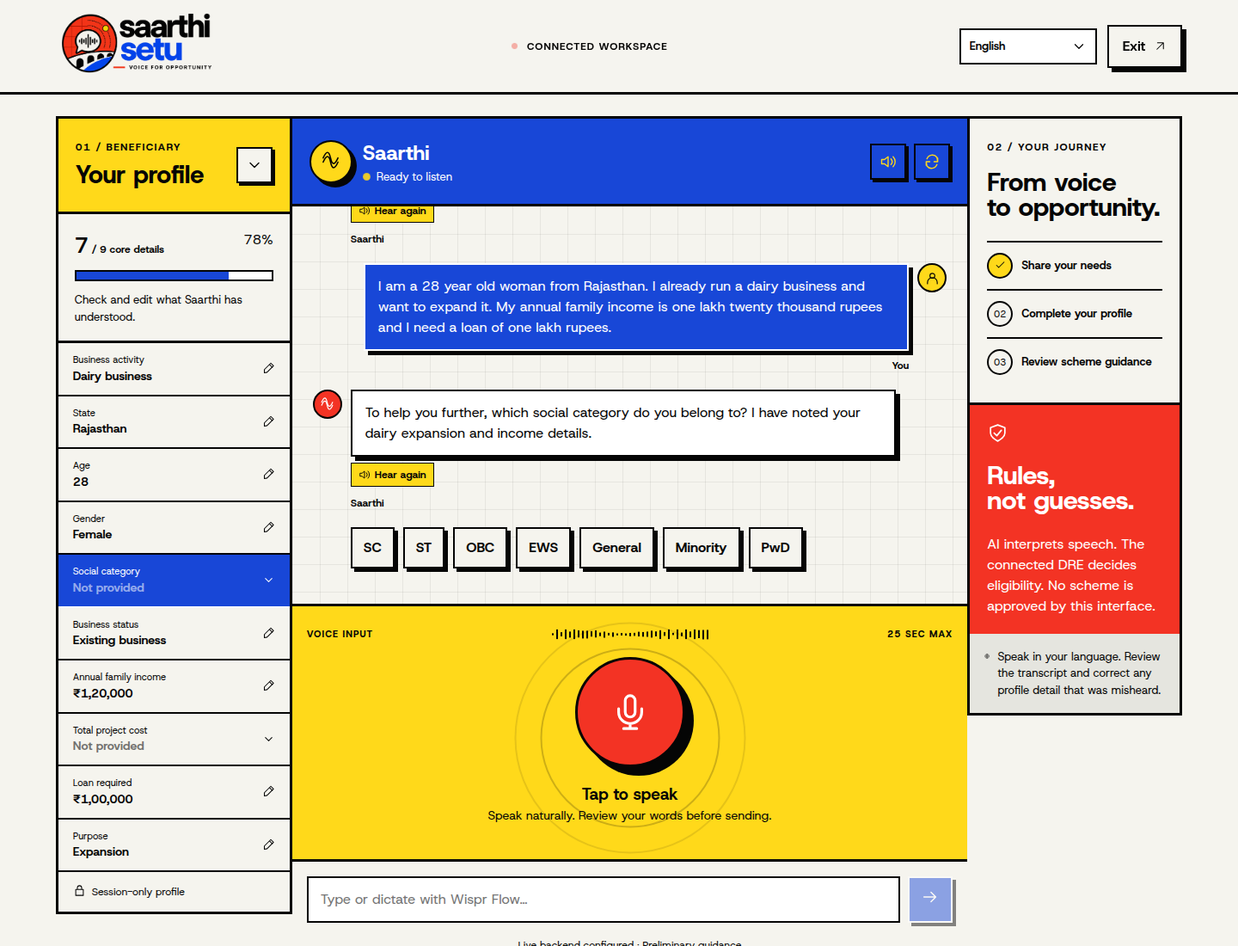
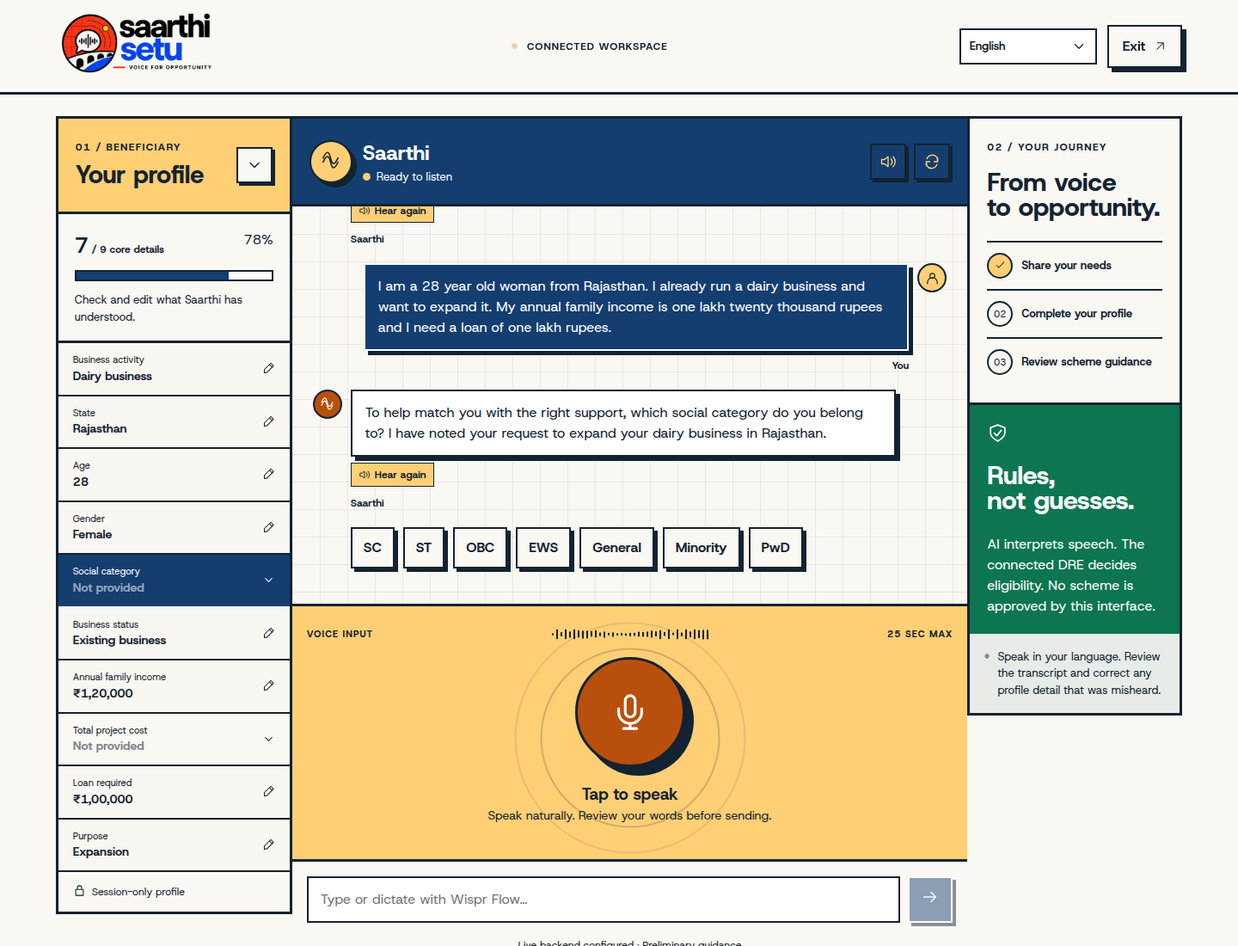
Refresh civic UI and repository screenshots

diff --git a/components/Landing.jsx b/components/Landing.jsx
@@ -4,6 +4,18 @@ import Icon,{Brand} from './Icon';
 import CountUp from './CountUp';
 import {LANGUAGES} from '../lib/languages.mjs';
 import {config} from '../lib/api.mjs';
+const audiences=[
+ {icon:'store',title:'Starting a small business',detail:'A shop, service, food unit or local enterprise needs a clear first step.',prompt:'“I want to open a small shop.”'},
+ {icon:'leaf',title:'Growing a farm-linked livelihood',detail:'Dairy, poultry and other allied activities may need working capital.',prompt:'“I run a dairy unit and want to expand.”'},
+ {icon:'hand',title:'Working with a traditional craft',detail:'Artisans can explore support for skills, tools, credit and markets.',prompt:'“I make products by hand.”'},
+ {icon:'wallet',title:'Finding the right finance',detail:'Tell Saarthi the project cost and loan you need; it will ask for missing details.',prompt:'“I need funds for my business.”'},
+];
+const schemes=[
+ {title:'Pradhan Mantri MUDRA Yojana',short:'MUDRA',tag:'MICRO ENTERPRISE',audience:'Small businesses in manufacturing, trade, services and allied activities, including dairy and poultry.',benefit:'Term loans and working capital across Shishu, Kishor, Tarun and eligible Tarun Plus categories.',url:'https://www.pib.gov.in/PressReleasePage.aspx?PRID=2240159&lang=1&reg=3',icon:'store'},
+ {title:'Prime Minister’s Employment Generation Programme',short:'PMEGP',tag:'NEW ENTERPRISE',audience:'People setting up a new non-farm micro enterprise in an urban or rural area.',benefit:'Credit-linked margin-money subsidy, generally 15–35% of project cost based on category and location.',url:'https://www.common-pmegp.msme.gov.in/Home/FAQ',icon:'spark'},
+ {title:'Kisan Credit Card',short:'KCC',tag:'FARM & DAIRY',audience:'Farmers and people engaged in animal husbandry or fisheries who need working capital.',benefit:'Access to short-term credit for cultivation and eligible allied-agriculture activities.',url:'https://www.financialservices.gov.in/agriculture-credit',icon:'leaf'},
+ {title:'PM Vishwakarma',short:'VISHWAKARMA',tag:'ARTISANS',audience:'Traditional artisans and craftspeople working in one of 18 notified trades.',benefit:'Recognition, skill training, toolkit support, credit and market linkage, subject to scheme verification.',url:'https://s3fd5a3f16c2001a93d9d64a1ec1d6196e.s3waas.gov.in/scheme/pm-vishwakarma/',icon:'hand'},
+];
 export function Wave({className=''}){return <span className={'wave '+className} aria-hidden="true">{Array.from({length:37},(_,i)=><i key={i} style={{'--height':`${(7+Math.abs(Math.sin(i*1.46)*Math.cos(i*.095))*37).toFixed(2)}px`,'--delay':`${(i*.035).toFixed(3)}s`}}/>)}</span>}
 export function Orb({small=false,active=false}){return <div className={'orb '+(small?'small ':'')+(active?'active':'')} aria-hidden="true"><div className="orb-ring r1"/><div className="orb-ring r2"/><div className="orb-ring r3"/><div className="orb-core"><div className="orb-shine"/><Wave/></div></div>}
 export default class Landing extends React.Component{
@@ -39,14 +51,16 @@ export default class Landing extends React.Component{
 }
  componentWillUnmount(){window.removeEventListener('beforeinstallprompt',this.onInstall);if(this.onScroll)window.removeEventListener('scroll',this.onScroll);if(this.scrollFrame)cancelAnimationFrame(this.scrollFrame);document.body.classList.remove('landing-motion-ready');document.body.style.removeProperty('--page-progress');this.observer?.disconnect();if(this.videoObject)URL.revokeObjectURL(this.videoObject)}
  chooseVideo=e=>{const file=e.target.files?.[0];if(!file)return;if(this.videoObject)URL.revokeObjectURL(this.videoObject);this.videoObject=URL.createObjectURL(file);this.setState({video:this.videoObject})};
- render(){return <><header className="site-nav"><div className="nav-content"><a href="/" aria-label="Saarthi Setu home"><Brand/></a><nav className={this.state.menu?'nav-links open':'nav-links'}><a onClick={()=>this.setState({menu:false})} href="#how">How it works</a><a onClick={()=>this.setState({menu:false})} href="#technology">Technology</a><a onClick={()=>this.setState({menu:false})} href="#demo">IVR demo</a></nav><div className="nav-actions">{this.state.install&&<button className="text-link install" onClick={()=>{this.state.install.prompt();this.setState({install:null})}}>Install app</button>}<a className="btn dark nav-cta" href="/assistant">Talk to Saarthi <Icon name="diagonal" size={16}/></a><button aria-label="Toggle navigation" className="mobile-menu icon-button" onClick={()=>this.setState(s=>({menu:!s.menu}))}><Icon name="menu"/></button></div></div></header>
+ render(){return <><header className="site-nav"><div className="nav-content"><a href="/" aria-label="Saarthi Setu home"><Brand/></a><nav aria-label="Main navigation" className={this.state.menu?'nav-links open':'nav-links'}><a onClick={()=>this.setState({menu:false})} href="#for-whom">Who it helps</a><a onClick={()=>this.setState({menu:false})} href="#schemes">Explore schemes</a><a onClick={()=>this.setState({menu:false})} href="#how">How it works</a><a onClick={()=>this.setState({menu:false})} href="#technology">Technology</a><a onClick={()=>this.setState({menu:false})} href="#demo">IVR demo</a></nav><div className="nav-actions">{this.state.install&&<button className="text-link install" onClick={()=>{this.state.install.prompt();this.setState({install:null})}}>Install app</button>}<a className="btn dark nav-cta" href="/assistant">Talk to Saarthi <Icon name="diagonal" size={16}/></a><button aria-label="Toggle navigation" aria-expanded={this.state.menu} className="mobile-menu icon-button" onClick={()=>this.setState(s=>({menu:!s.menu}))}><Icon name="menu"/></button></div></div></header>
  <main><section className="hero-new"><div className="hero-copy"><div className="eyebrow"><span className="signal-dot"/> A VOICE-FIRST CIVIC SERVICE <span className="eyebrow-divider"/> MADE FOR BHARAT</div><h1><span className="hero-title-top">Opportunity begins</span><span className="hero-title-bottom">with <em>your voice.</em></span></h1><p className="hero-description">You don't need to know the name of a government scheme. Just tell us what you want to do. We'll help you find the right support, in the language you speak.</p><div className="hero-actions"><a className="btn dark large" href="/assistant"><Icon name="mic" size={20}/> Start a conversation <Icon name="arrow" size={19}/></a><a href="#demo" className="btn outline large"><Icon name="play" size={18}/> Watch the IVR</a></div><div className="hero-fine"><Icon name="lock" size={14}/> No account required <span/> Auto-detect Indian languages</div><a className="scroll-cue" href="#impact">SCROLL TO EXPLORE <span aria-hidden="true">↓</span></a></div>
  <div className="hero-art" ref={e=>this.heroArt=e}><div className="art-grain"/><div className="art-grid"/><div className="art-label"><span className="signal-dot"/> THE SAARTHI EXPERIENCE <span>01 / 03</span></div><div className="art-caption">A little conversation.<br/><i>A lot of possibility.</i></div><svg className="orbit-lines" viewBox="0 0 800 640" preserveAspectRatio="none" aria-hidden="true">{Array.from({length:18},(_,i)=><path key={i} d={`M -70 ${300+i*20} Q 180 ${90+i*22}, 420 ${260+i*12} T 870 ${170+i*18}`} fill="none" stroke="currentColor" strokeWidth=".65"/>)}</svg><Orb/><div className="glass-message glass-left"><span className="mini-avatar"><Icon name="mark" size={18}/></span><div><small>SAARTHI</small><p>Tell me about the business<br/>you want to start.</p></div></div><div className="glass-message glass-right"><small>YOU · VOICE INPUT</small><p>“I want to start a dairy<br/>business in Rajasthan.”</p><Wave/></div><div className="glass-proof"><Icon name="shield" size={19}/><span>Rules, not guesses.<small>Explainable scheme guidance</small></span></div><div className="art-footer"><span>01 — SPEAK NATURALLY</span><span>VOICE → OPPORTUNITY</span></div></div></section>
  <section className="trust-strip"><div className="reveal"><span>BUILT AROUND</span><strong>Accessible public services</strong></div><div className="reveal"><Icon name="phone"/><span>Ordinary phone access<small>Existing IVR prototype</small></span></div><div className="reveal"><Icon name="globe"/><span>Indian languages<small>Multilingual voice conversations</small></span></div><div className="reveal"><Icon name="shield"/><span>Rule-based eligibility<small>Auditable decision engine</small></span></div></section>
  <section className="impact-section" id="impact" aria-label="Saarthi Setu at a glance"><div className="impact-intro reveal"><span className="section-index">BUILT FOR REAL CONVERSATIONS</span><h2>Every voice<br/><em>deserves a way in.</em></h2><p>Start with what you know. Saarthi helps you fill the rest, then checks the rules.</p></div><div className="impact-stats">{[[Object.keys(LANGUAGES).length,'Language choices','Your words come first.'],[11,'Spoken reply languages','Hear Saarthi respond.'],[9,'Core profile details','Confirm before matching.']].map(([value,label,note],index)=><div className="impact-stat reveal" style={{'--reveal-delay':`${index*110}ms`}} key={label}><span className="impact-stat-index">0{index+1} /</span><strong><CountUp value={value}/></strong><h3>{label}</h3><p>{note}</p></div>)}</div></section>
  <div className="voice-marquee" aria-hidden="true"><div>{Array.from({length:4},(_,i)=><span key={i}>SPEAK NATURALLY <b>✳</b> FIND CLARITY <b>✳</b> KNOW YOUR NEXT STEP <b>✳</b> </span>)}</div></div>
+ <section className="audience-section section" id="for-whom"><div className="civic-section-head reveal"><span className="section-index">MADE FOR EVERYDAY AMBITION</span><h2>There is a path for <em>your idea.</em></h2><p>These are examples of the conversations Saarthi can help start. Speak in your language and describe your situation in your own words.</p></div><div className="audience-grid">{audiences.map((item,index)=><article className="audience-card reveal" style={{'--reveal-delay':`${index*90}ms`}} key={item.title}><span className="audience-icon"><Icon name={item.icon} size={30}/></span><h3>{item.title}</h3><p>{item.detail}</p><blockquote>{item.prompt}</blockquote></article>)}</div><div className="audience-bottom reveal"><strong>Know what you want to do, but not the scheme name?</strong><a href="/assistant" className="text-link">Tell Saarthi your story <Icon name="diagonal" size={16}/></a></div></section>
+ <section className="schemes-section section" id="schemes"><div className="civic-section-head reveal"><span className="section-index">PUBLIC SCHEME SPOTLIGHT</span><h2>Support that starts with <em>possibility.</em></h2><p>Explore examples of government support for enterprise and livelihoods. Saarthi checks your profile before showing matches; scheme rules and availability should always be confirmed on the official source.</p></div><div className="schemes-grid">{schemes.map((scheme,index)=><article className="spotlight-card reveal" style={{'--reveal-delay':`${index*90}ms`}} key={scheme.short}><div className="spotlight-top"><span>{scheme.tag}</span><span className="spotlight-icon"><Icon name={scheme.icon} size={25}/></span></div><span className="spotlight-short">{scheme.short}</span><h3>{scheme.title}</h3><div className="spotlight-detail"><strong>Who it may help</strong><p>{scheme.audience}</p></div><div className="spotlight-detail"><strong>What it offers</strong><p>{scheme.benefit}</p></div><a href={scheme.url} target="_blank" rel="noopener noreferrer" className="spotlight-link">Read official details <Icon name="diagonal" size={16}/></a></article>)}</div><div className="schemes-footnote reveal"><Icon name="shield" size={20}/><p>These cards are examples, not eligibility decisions or loan offers. Programme rules, bank assessment and application status can change. Use the official links for current details.</p></div></section>
  <section className="section how-section" id="how"><div className="section-heading reveal"><div className="section-index">01 / THE EXPERIENCE</div><h2>Not another form.<br/><em>A conversation.</em></h2><p>From a simple voice request to an actionable next step, without getting lost in government portals.</p></div><div className="steps-grid">{[['01','mic','Tell us what you need.','Speak naturally about your business, your location and the support you are looking for.','“Mujhe dairy business shuru karna hai.”'],['02','chat','Only what’s missing.','Saarthi asks relevant follow-ups and keeps the information you have already shared.','“What is your total project cost?”'],['03','file','Know your next step.','Explore rule-checked recommendations, financing guidance, documents and official sources.','Right scheme. Right door.']].map(([n,icon,title,desc,quote],index)=><article className="step-card reveal" style={{'--reveal-delay':`${index*120}ms`}} key={n}><div className="step-top"><span>{n} /</span><Icon name={icon} size={25}/></div><h3>{title}</h3><p>{desc}</p><div className="step-quote">{quote}</div></article>)}</div></section>
  <section className="tech-band" id="technology"><div className="section-index">02 / INTELLIGENCE WITH ACCOUNTABILITY</div><div className="tech-inner"><div className="tech-copy reveal"><h2>AI understands.<br/>Rules decide.<br/><em>Ranking explains.</em></h2><p>Voice and semantic understanding help capture the facts. The deterministic backend evaluates eligibility against explicit scheme rules. Similarity can guide discovery, but it never proves eligibility.</p><a href="/assistant" className="btn lime large">Explore the experience <Icon name="arrow"/></a></div><div className="tech-stack reveal">{[['01','Voice & language','Speech or Wispr Flow dictation','mic'],['02','Structured profile','Context-aware follow-up questions','user'],['03','Scheme discovery','Vector retrieval when connected','spark'],['04','Deterministic evaluation','Rules, ranking and financial guidance','shield']].map(([n,title,sub,icon],index)=><div className="tech-row reveal" style={{'--reveal-delay':`${index*100}ms`}} key={n}><span className="tech-num">{n}</span><span className="tech-icon"><Icon name={icon}/></span><div><strong>{title}</strong><small>{sub}</small></div><Icon name="diagonal" size={16}/></div>)}</div></div></section>
  <section className="section demo-section" id="demo"><div className="section-heading reveal"><div className="section-index">03 / THE ORIGINAL VOICE AGENT</div><h2>A real phone call.<br/><em>A wider reach.</em></h2><p>Our original telephone IVR prototype brings the same idea to people without a smartphone or mobile internet. The web experience makes it easy to try without calling a paid test number.</p></div><div className="demo-film reveal">{this.state.video?<video controls playsInline preload="metadata" src={this.state.video}/>:<div className="film-placeholder"><div className="film-top"><span><span className="signal-dot"/> IVR / DEMONSTRATION</span><span>EN · HI</span></div><div className="film-center"><Orb small/><button className="play-circle" onClick={()=>this.file.click()} aria-label="Choose the IVR demo video"><Icon name="play" size={26}/></button></div><h3>One call. Right scheme. Right door.</h3><p>Original IVR recording — video not attached yet.</p><button className="btn outline inverse" onClick={()=>this.file.click()}>Attach demo video <Icon name="diagonal" size={16}/></button></div>}<input ref={e=>this.file=e} type="file" hidden accept="video/*" onChange={this.chooseVideo}/></div></section>
- <section className="final-cta"><div className="reveal"><div className="section-index">YOUR NEXT STEP</div><h2>Don't search.<br/><em>Just speak.</em></h2></div><a href="/assistant" className="btn dark large reveal"><Icon name="mic"/> Talk to Saarthi <Icon name="arrow"/></a></section></main><footer className="site-footer"><Brand/><p>Independent civic-tech prototype. Not an official government portal.<br/>Preliminary scheme guidance is not financial approval.</p><span>BUILT FOR BHARAT · 2026</span></footer></>}
+ <section className="final-cta"><div className="reveal"><div className="section-index">YOUR NEXT STEP</div><h2>Don't search.<br/><em>Just speak.</em></h2></div><a href="/assistant" className="btn dark large reveal"><Icon name="mic"/> Talk to Saarthi <Icon name="arrow"/></a></section></main><footer className="site-footer"><div className="footer-main"><div className="footer-about"><Brand/><p>Voice-led discovery for public support, built for the people and languages of India.</p><small>Independent civic-tech prototype. Saarthi Setu is not a government portal, and preliminary matches are not approvals.</small></div><div className="footer-column"><h3>Explore Saarthi</h3><a href="#for-whom">Who it helps</a><a href="#schemes">Scheme spotlight</a><a href="#how">How it works</a><a href="/assistant">Talk to Saarthi</a></div><div className="footer-column"><h3>Official resources</h3><a href="https://www.myscheme.gov.in/" target="_blank" rel="noopener noreferrer">myScheme</a><a href="https://www.india.gov.in/" target="_blank" rel="noopener noreferrer">National Portal of India</a><a href="https://www.jansamarth.in/home" target="_blank" rel="noopener noreferrer">JanSamarth</a><a href="https://www.digilocker.gov.in/" target="_blank" rel="noopener noreferrer">DigiLocker</a></div></div><div className="footer-bottom"><span>BUILT FOR BHARAT · 2026</span><span>VOICE FOR OPPORTUNITY</span></div></footer></>}
 }

diff --git a/components/Workspace.jsx b/components/Workspace.jsx
@@ -3,7 +3,7 @@ import React from 'react';
 import Icon,{Brand} from './Icon';
 import Report from './Report';
 import LanguagePicker from './LanguagePicker';
-import {Wave,Orb} from './Landing';
+import {Wave} from './Landing';
 import {FIELDS,REQUIRED,OPTIONS,LABELS,present,display,parseField,SAMPLE,sampleCandidates} from '../lib/profile.mjs';
 import {config,match,transcribe,eligibleItems} from '../lib/api.mjs';
 import {LANGUAGES,isLanguage} from '../lib/languages.mjs';
@@ -31,7 +31,7 @@ export default class Workspace extends React.Component{
  saveEdit=e=>{e.preventDefault();const {edit,editValue}=this.state;const value=OPTIONS[edit]?(Object.hasOwn(OPTIONS[edit],editValue)?(edit==='existing_business'?editValue==='true':editValue):null):parseField(edit,editValue);if(!present(value)){this.setState({editError:'Enter a valid value.'});return}this.setState({edit:null},()=>this.submit(`${LABELS[edit]}: ${display(edit,value)}`,{[edit]:value}))};
  changeLang=e=>{this.stopRecording(true);const lang=typeof e==='string'?e:e.target.value;this.setState({lang,activeLang:lang==='unknown'?this.state.activeLang:lang,conversationLang:lang==='unknown'?null:lang},()=>{if(this.state.started&&this.state.pending&&lang!=='unknown')this.submit('Please continue in '+LANGUAGES[lang])})};
  render(){const s=this.state,done=REQUIRED.filter(k=>present(s.profile[k])).length,pct=Math.round(done/REQUIRED.length*100),disabled=s.busy||s.recording||s.starting;return <div className="workspace-shell"><header className="workspace-nav"><a href="/"><Brand/></a><div className="workspace-nav-center"><span className="signal-dot"/> {config.matchUrl?'Connected workspace':'Interactive preview'}</div><div className="workspace-nav-actions">{s.started&&<LanguagePicker id="header-language" value={s.lang} disabled={s.busy||s.recording||s.starting} onChange={this.changeLang} compact/>}<a className="btn outline" href="/">Exit <Icon name="diagonal" size={15}/></a></div></header>
- {!s.started?<main className="entry"><div className="entry-art"><Orb/><div className="section-index">YOUR VOICE. YOUR OPPORTUNITY.</div></div><form className="entry-card" onSubmit={this.start}><span className="section-index">START / 01</span><h1>Let's get<br/><em>you started.</em></h1><p>One conversation, one step closer to the right support. No account, password or sign-up required.</p><label htmlFor="guest-name">What should we call you? <small>(optional)</small></label><input id="guest-name" autoComplete="off" maxLength={45} placeholder="Your first name" value={s.name} onChange={e=>this.setState({name:e.target.value})}/><div className="language-choice"><label htmlFor="guest-language">Which language would you like to speak and hear?</label><LanguagePicker id="guest-language" value={s.lang} onChange={this.changeLang}/><p>Audio replies start on. Sarvam voices cover 11 languages; other languages use your browser voice when available.</p></div><p className="privacy-note"><Icon name="lock" size={17}/> The frontend keeps this conversation in memory only. Connected speech services may process your audio. Use sample details for a demo.</p><button className="btn dark large" type="submit" disabled={s.busy}>{s.busy?"Starting…":"Continue as guest"} <Icon name="arrow"/></button></form></main>:<main className="workspace-main"><aside className="profile-panel"><div className="profile-heading"><div><span className="section-index">01 / BENEFICIARY</span><h2>Your profile</h2></div><button className="icon-button mobile-profile" aria-label="Toggle profile" aria-expanded={s.profileOpen} onClick={()=>this.setState({profileOpen:!s.profileOpen})}><Icon name="chevron"/></button></div><div className="profile-progress"><div><strong>{done}<small> / {REQUIRED.length} core details</small></strong><span>{pct}%</span></div><div className="progress-track" role="progressbar" aria-label="Core profile completion" aria-valuenow={pct} aria-valuemin={0} aria-valuemax={100}><i style={{width:pct+'%'}}/></div><p>Check and edit what Saarthi has understood.</p></div><div className={'profile-fields '+(s.profileOpen?'expanded':'')}>{FIELDS.map(([k,label,h])=><button key={k} className={'profile-field '+(s.pending===k?'pending':'')+(s.updatedFields.includes(k)?' updated':'')} disabled={disabled} onClick={()=>this.edit(k)}><span><small>{s.lang==='hi-IN'?h:label}</small><strong className={present(s.profile[k])?'':'missing'}>{display(k,s.profile[k])}</strong></span><Icon name={present(s.profile[k])?'edit':'chevron'} size={15}/></button>)}</div><div className="profile-bottom"><Icon name="lock" size={15}/> Session-only profile</div></aside>
+ {!s.started?<main className="entry"><div className="entry-art"><img className="entry-illustration" src="/illustrations/assistant-welcome.png" alt="A woman using Saarthi Setu on her phone to explore public schemes"/><div className="section-index">YOUR VOICE. YOUR OPPORTUNITY.</div></div><form className="entry-card" onSubmit={this.start}><span className="section-index">START / 01</span><h1>Let's get<br/><em>you started.</em></h1><p>One conversation, one step closer to the right support. No account, password or sign-up required.</p><label htmlFor="guest-name">What should we call you? <small>(optional)</small></label><input id="guest-name" autoComplete="off" maxLength={45} placeholder="Your first name" value={s.name} onChange={e=>this.setState({name:e.target.value})}/><div className="language-choice"><label htmlFor="guest-language">Which language would you like to speak and hear?</label><LanguagePicker id="guest-language" value={s.lang} onChange={this.changeLang}/><p>Audio replies start on. Sarvam voices cover 11 languages; other languages use your browser voice when available.</p></div><p className="privacy-note"><Icon name="lock" size={17}/> The frontend keeps this conversation in memory only. Connected speech services may process your audio. Use sample details for a demo.</p><button className="btn dark large" type="submit" disabled={s.busy}>{s.busy?"Starting…":"Continue as guest"} <Icon name="arrow"/></button></form></main>:<main className="workspace-main"><aside className="profile-panel"><div className="profile-heading"><div><span className="section-index">01 / BENEFICIARY</span><h2>Your profile</h2></div><button className="icon-button mobile-profile" aria-label="Toggle profile" aria-expanded={s.profileOpen} onClick={()=>this.setState({profileOpen:!s.profileOpen})}><Icon name="chevron"/></button></div><div className="profile-progress"><div><strong>{done}<small> / {REQUIRED.length} core details</small></strong><span>{pct}%</span></div><div className="progress-track" role="progressbar" aria-label="Core profile completion" aria-valuenow={pct} aria-valuemin={0} aria-valuemax={100}><i style={{width:pct+'%'}}/></div><p>Check and edit what Saarthi has understood.</p></div><div className={'profile-fields '+(s.profileOpen?'expanded':'')}>{FIELDS.map(([k,label,h])=><button key={k} className={'profile-field '+(s.pending===k?'pending':'')+(s.updatedFields.includes(k)?' updated':'')} disabled={disabled} onClick={()=>this.edit(k)}><span><small>{s.lang==='hi-IN'?h:label}</small><strong className={present(s.profile[k])?'':'missing'}>{display(k,s.profile[k])}</strong></span><Icon name={present(s.profile[k])?'edit':'chevron'} size={15}/></button>)}</div><div className="profile-bottom"><Icon name="lock" size={15}/> Session-only profile</div></aside>
  <section className="conversation-panel"><div className="conversation-header"><div className="assistant-identity"><span className="assistant-avatar"><Icon name="mark" size={23}/></span><div><h2>Saarthi</h2><p><span className="signal-dot"/> {s.busy?'Processing your answer':s.recording?'Listening to you':'Ready to listen'}</p></div></div><div className="conversation-tools"><button className="icon-button" aria-label={s.tts?'Mute spoken replies':'Enable spoken replies'} aria-pressed={s.tts} onClick={()=>this.setState({tts:!s.tts},()=>{if(s.tts)this.stopSpeech();else{const m=[...this.state.messages].reverse().find(m=>m.role==='assistant');if(m)this.speak(m.text)}})}><Icon name={s.tts?'volume':'mute'}/></button><button className="icon-button" disabled={s.starting} aria-label="Start new conversation" onClick={()=>{if(window.confirm('Clear the current conversation and profile?'))this.reset()}}><Icon name="refresh"/></button></div></div>
  <div className="chat-area" ref={e=>this.chat=e} aria-live="polite"><div className="chat-intro"><span className="section-index">PRIVATE SESSION / SCHEME DISCOVERY</span></div>{s.messages.map((m,i)=><div className={'chat-message '+m.role} key={i}><span className="msg-avatar"><Icon name={m.role==='assistant'?'mark':'user'} size={17}/></span><div><div className="chat-bubble">{m.text}</div>{m.role==='assistant'&&<button type="button" className="reply-replay" aria-label="Hear Saarthi reply again" onClick={()=>this.setState({tts:true},()=>this.speak(m.text))}><Icon name="volume" size={14}/> Hear again</button>}<small>{m.role==='assistant'?'Saarthi':'You'}</small></div></div>)}{s.messages.length===1&&<button className="sample-button" disabled={disabled} onClick={()=>this.submit(s.lang==='hi-IN'?SAMPLE.hi:SAMPLE.en)}><Icon name="spark" size={16}/> Try a sample conversation <Icon name="arrow" size={15}/></button>}{s.awaitingConfirmation&&!s.result&&<div className="quick-choices confirmation-actions"><button disabled={disabled} onClick={()=>this.submit('I confirm these profile details.',null,true)}><Icon name="check" size={15}/> Confirm details and see schemes</button><button disabled={disabled} onClick={()=>this.setState({profileOpen:true},()=>document.querySelector('.profile-panel')?.scrollIntoView({behavior:'smooth',block:'start'}))}><Icon name="edit" size={15}/> Correct a detail</button></div>}{s.pending&&OPTIONS[s.pending]&&!s.result&&<div className="quick-choices">{Object.entries(OPTIONS[s.pending]).map(([v,label])=><button disabled={disabled} key={v} onClick={()=>this.submit(label,{[s.pending]:s.pending==='existing_business'?v==='true':v})}>{label}</button>)}</div>}{s.busy&&<div className="thinking"><span/><span/><span/> Reviewing your answer</div>}{s.result&&<button className="report-jump" onClick={()=>document.getElementById('report')?.scrollIntoView({behavior:'smooth'})}><Icon name="file"/> Open your scheme report <Icon name="arrow"/></button>}</div>
  <div className="voice-console"><div className="voice-status"><span>{s.recording?'RECORDING':'VOICE INPUT'}</span><Wave className={s.recording?'animated':''}/><span>{s.recording?`00:${String(s.seconds).padStart(2,'0')}`:'25 SEC MAX'}</span></div><button className={'record-button '+(s.recording?'recording':'')} aria-label={s.recording?'Stop recording':'Start recording'} disabled={s.busy||s.starting} onClick={this.record}><Icon name={s.recording?'stop':'mic'} size={33}/></button><strong>{s.recording?'Listening…':s.starting?'Opening microphone…':'Tap to speak'}</strong><p>{s.recording?'Tap again when finished.':'Speak naturally. Review your words before sending.'}</p></div>

diff --git a/app/globals.css b/app/globals.css
@@ -143,3 +143,113 @@ body.landing-motion-ready::before{content:"";position:fixed;top:0;left:0;z-index
 .brand-image{display:block;width:100%;height:100%;object-fit:cover;object-position:center;mix-blend-mode:multiply}
 .site-footer .brand{width:205px;height:82px}
 @media(max-width:620px){.brand{width:118px;height:48px}.site-footer .brand{width:170px;height:68px}.nav-content{gap:10px}.nav-actions{gap:7px}}
+
+/* Civic palette and tricolor progress for the Saarthi experience. */
+:root{--paper:#f9f8f3;--ink:#132331;--red:#b94f0d;--blue:#143e70;--yellow:#ffcf75;--green:#0d7650;--green-light:#dcefe4;--saffron-light:#fff0d9;--grey:#e7ece9}
+body.landing-motion-ready::before{height:6px;background:linear-gradient(90deg,#ed8b2d 0 33.33%,#fff 33.33% 66.66%,#138455 66.66% 100%);box-shadow:0 2px 0 #13233155}
+.site-nav::before{content:"";position:absolute;top:0;left:0;right:0;height:4px;background:linear-gradient(90deg,#ed8b2d 0 33.33%,#fff 33.33% 66.66%,#138455 66.66% 100%)}
+::selection{background:var(--green);color:#fff}
+.site-nav,.workspace-nav{background:#f9f8f3f5}
+.nav-links{gap:clamp(12px,1.55vw,25px);font-size:14px}
+.mobile-menu.icon-button{display:none}
+.nav-links a:hover{background:var(--saffron-light)}
+.hero-new{background:radial-gradient(circle at 18% 15%,#fff5e8,transparent 38%),var(--paper)}
+.hero-copy h1 em,.section-heading h2 em,.tech-copy h2 em,.report-header h2 em{color:var(--green)}
+.hero-art{color:var(--ink);background:linear-gradient(153deg,#ed8b2d 0 31%,#f9f8f3 31% 62%,#168556 62% 100%)}
+.hero-art .art-grid{opacity:.12}
+.hero-art .art-grain{background:linear-gradient(145deg,transparent 48%,#133b6722 48%)}
+.hero-art .art-footer{color:#fff;border-color:#f9f8f3}
+.art-caption i{color:var(--ink)}
+.glass-right{background:var(--blue)}
+.glass-proof{background:#fff7e8}
+.trust-strip>div:first-child{background:var(--saffron-light)}
+.trust-strip>div:nth-child(3){background:var(--green-light)}
+.trust-strip>div:last-child{background:var(--blue)}
+.impact-section{background:#102a3b}
+.impact-intro .section-index{color:#ffcf75}
+.impact-intro h2 em{color:#a5dec0}
+.impact-stat strong{color:#ffcf75}
+.impact-stat:nth-child(2) strong{color:#a5dec0}
+.voice-marquee{background:var(--saffron-light)}
+.voice-marquee b{color:var(--green)}
+.step-card:nth-child(2){background:var(--saffron-light)}
+.step-card:nth-child(3){background:var(--green-light)}
+.step-card:hover{box-shadow:inset 0 -10px 0 var(--green)}
+.tech-band{background:#102a3b}
+.tech-row:nth-child(2){background:var(--saffron-light)}
+.tech-row:nth-child(4){background:var(--green)}
+.tech-icon{background:var(--saffron-light)}
+.film-placeholder{background:var(--blue)}
+.final-cta{background:var(--green)}
+.final-cta .section-index{color:#e5f4eb}
+.entry-art{background:var(--green)}
+.entry-card h1 em{color:var(--green)}
+.conversation-header{background:var(--blue)}
+.dark-context{background:var(--green)}
+.report-stats>div:nth-child(2){background:var(--saffron-light)}
+.funding{background:var(--blue)}
+.stage-list li.done .stage-circle{background:var(--green)}
+
+/* Audience and scheme discovery sections. */
+.audience-section{background:#fffdf9;border-bottom:var(--rule) solid var(--ink)}
+.schemes-section{background:linear-gradient(180deg,#eaf2ed 0%,#f9f8f3 100%);border-bottom:var(--rule) solid var(--ink)}
+.civic-section-head{max-width:1480px;margin:0 auto 42px;display:grid;grid-template-columns:minmax(0,1.55fr) minmax(250px,.7fr);column-gap:8%;align-items:end}
+.civic-section-head .section-index{grid-column:1/-1;margin-bottom:19px;color:var(--green);font-size:14px}
+.civic-section-head h2{font-size:clamp(48px,5.8vw,86px);line-height:.96;letter-spacing:-.06em}
+.civic-section-head h2 em{color:var(--green);font-family:Georgia,'Times New Roman',serif;font-style:italic;font-weight:500}
+.schemes-section .civic-section-head h2 em{color:var(--red)}
+.civic-section-head>p{max-width:390px;font-size:18px;line-height:1.55}
+.audience-grid,.schemes-grid{max-width:1480px;margin:auto;display:grid;grid-template-columns:repeat(4,minmax(0,1fr));border:var(--rule) solid var(--ink)}
+.audience-card{min-height:380px;padding:27px 23px;display:flex;flex-direction:column;align-items:flex-start;border-right:var(--rule) solid var(--ink);background:var(--paper)}
+.audience-card:last-child{border-right:0}
+.audience-card:nth-child(1){background:var(--saffron-light)}
+.audience-card:nth-child(3){background:var(--green-light)}
+.audience-card:nth-child(4){background:#e3ebf4}
+.audience-icon,.spotlight-icon{width:58px;height:58px;display:grid;place-items:center;flex:none;border:2px solid var(--ink);border-radius:50%;background:#fff;box-shadow:4px 4px var(--ink)}
+.audience-card h3{margin:34px 0 12px;font-size:clamp(24px,2vw,31px);line-height:1.08;letter-spacing:-.035em}
+.audience-card p{font-size:16px;line-height:1.5}
+.audience-card blockquote{width:100%;margin:auto 0 0;padding-top:23px;border-top:2px solid var(--ink);font-size:16px;font-weight:700}
+.audience-bottom{max-width:1480px;margin:21px auto 0;display:flex;align-items:center;justify-content:space-between;gap:25px;font-size:18px}
+.audience-bottom .text-link{display:inline-flex;align-items:center;gap:8px;color:var(--green)}
+.schemes-grid{grid-template-columns:repeat(2,minmax(0,1fr));gap:16px;border:0}
+.spotlight-card{min-height:460px;padding:29px;display:flex;flex-direction:column;border:var(--rule) solid var(--ink);background:#fff;box-shadow:7px 7px var(--ink);transition:transform .2s ease,box-shadow .2s ease}
+.spotlight-card:hover{transform:translateY(-5px);box-shadow:7px 12px var(--ink)}
+.spotlight-card:nth-child(2){background:var(--saffron-light)}
+.spotlight-card:nth-child(3){background:var(--green-light)}
+.spotlight-card:nth-child(4){background:#e3ebf4}
+.spotlight-top{display:flex;align-items:flex-start;justify-content:space-between;gap:20px}
+.spotlight-top>span:first-child{padding:7px 10px;border:2px solid var(--ink);font-size:13px;font-weight:800;letter-spacing:.1em}
+.spotlight-icon{width:50px;height:50px;box-shadow:none}
+.spotlight-short{margin-top:16px;color:var(--green);font-size:14px;font-weight:800;letter-spacing:.16em}
+.spotlight-card h3{max-width:620px;margin:6px 0 20px;font-size:clamp(26px,3vw,39px);line-height:1.06;letter-spacing:-.04em}
+.spotlight-detail{display:grid;grid-template-columns:125px 1fr;gap:14px;padding:11px 0;border-top:1px solid #13233166}
+.spotlight-detail strong{font-size:14px}
+.spotlight-detail p{font-size:15px;line-height:1.45}
+.spotlight-link{width:max-content;max-width:100%;margin-top:auto;padding-top:23px;display:inline-flex;align-items:center;gap:8px;border-bottom:2px solid var(--ink);font-weight:750}
+.spotlight-link:hover{color:var(--green);border-color:var(--green)}
+.schemes-footnote{max-width:1480px;margin:28px auto 0;display:flex;align-items:flex-start;gap:13px}
+.schemes-footnote svg{flex:none;color:var(--green)}
+.schemes-footnote p{max-width:850px;font-size:14px;line-height:1.5}
+
+/* Footer doubles as a clear route to authoritative public portals. */
+.site-footer{min-height:0;padding:0;display:block;color:#fff;background:#102a3b}
+.footer-main{max-width:1700px;margin:auto;padding:55px var(--gutter);display:grid;grid-template-columns:minmax(240px,1.5fr) repeat(2,minmax(180px,.7fr));gap:7%}
+.site-footer .brand{width:205px;height:82px;background:var(--paper)}
+.site-footer .brand-image{mix-blend-mode:normal}
+.footer-about p{max-width:360px;margin:21px 0 12px;font-size:18px;line-height:1.4}
+.footer-about small{display:block;max-width:420px;color:#d7e5e2;font-size:13px;line-height:1.45}
+.footer-column{display:flex;flex-direction:column;align-items:flex-start;gap:11px}
+.footer-column h3{margin:8px 0 12px;color:#ffcf75;font-size:17px}
+.footer-column a{border-bottom:1px solid transparent;font-size:15px}
+.footer-column a:hover{border-color:currentColor;color:#ffcf75}
+.footer-bottom{padding:18px var(--gutter);display:flex;justify-content:space-between;gap:20px;border-top:1px solid #ffffff44;font-size:12px;font-weight:750;letter-spacing:.12em}
+
+@media(max-width:1150px){.nav-links{display:none;position:absolute;top:76px;left:0;right:0;padding:22px var(--gutter);flex-direction:column;align-items:flex-start;background:var(--paper);border-bottom:var(--rule) solid var(--ink)}.nav-links.open{display:flex}.mobile-menu.icon-button{display:grid}.audience-grid{grid-template-columns:repeat(2,minmax(0,1fr))}.audience-card:nth-child(2){border-right:0}.audience-card:nth-child(-n+2){border-bottom:var(--rule) solid var(--ink)}}
+@media(max-width:860px){.civic-section-head{grid-template-columns:1fr;gap:16px}.civic-section-head .section-index{margin:0}.schemes-grid{grid-template-columns:1fr}.footer-main{grid-template-columns:1fr 1fr;gap:36px}.footer-about{grid-column:1/-1}}
+@media(max-width:620px){.nav-links{top:68px}.civic-section-head h2{font-size:clamp(46px,11vw,66px)}.civic-section-head>p{font-size:16px}.audience-grid{grid-template-columns:1fr}.audience-card{min-height:290px;border-right:0;border-bottom:var(--rule) solid var(--ink)}.audience-card:last-child{border-bottom:0}.audience-card h3{margin-top:25px}.audience-card blockquote{margin-top:23px}.audience-bottom{align-items:flex-start;flex-direction:column;font-size:16px}.spotlight-card{min-height:0;padding:23px}.spotlight-detail{grid-template-columns:1fr;gap:4px}.spotlight-card h3{font-size:29px}.spotlight-link{margin-top:10px}.footer-main{grid-template-columns:1fr;padding:42px 20px;gap:30px}.footer-about{grid-column:auto}.footer-bottom{padding:16px 20px;flex-direction:column;gap:5px}}
+
+/* Assistant entry illustration supplied by the project owner. */
+.entry-art{background:#f8f1e7}
+.entry-illustration{position:absolute;inset:0;width:100%;height:100%;object-fit:cover;object-position:center center}
+.entry-art>.section-index{z-index:1;left:25px;bottom:25px;padding:9px 12px;color:var(--ink);background:#f9f8f3e8;border:2px solid var(--ink);backdrop-filter:blur(8px)}
+@media(max-width:620px){.entry-art>.section-index{left:14px;bottom:14px;font-size:11px}}

diff --git a/components/Icon.jsx b/components/Icon.jsx
@@ -1,4 +1,4 @@
 import React from 'react';
-const paths={mark:'M3 13c4-9 7-9 9 0s5 9 9 0M3 8c4-9 7-9 9 0s5 9 9 0',arrow:'M4 12h15m-6-6 6 6-6 6',diagonal:'M6 18 18 6M7 6h11v11',mic:'M9 5a3 3 0 0 1 6 0v7a3 3 0 0 1-6 0zM5 10v2a7 7 0 0 0 14 0v-2M12 19v3m-4 0h8',stop:'M7 7h10v10H7z',check:'m5 12 4 4L19 6',shield:'M12 3 4 6v6c0 5 8 9 8 9s8-4 8-9V6zM8 12l3 3 5-6',globe:'M12 3a9 9 0 1 0 0 18 9 9 0 0 0 0-18ZM3 12h18M12 3a16 16 0 0 1 0 18m0-18a16 16 0 0 0 0 18',phone:'M4 3h5l2 5-3 2c2 4 4 6 8 8l2-3 4 2v4c-9 3-21-8-18-18Z',chat:'M20 11a8 8 0 0 1-8 8H4l2-4a8 8 0 1 1 14-4Z',edit:'m14 5 5 5M4 20l5-1L21 7l-5-5L4 14z',volume:'M3 9h4l5-4v14l-5-4H3zM16 8a6 6 0 0 1 0 8m3-11a10 10 0 0 1 0 14',mute:'M3 9h4l5-4v14l-5-4H3zM16 9l5 6m0-6-5 6',refresh:'M20 7v5h-5M4 17v-5h5M5 8a8 8 0 0 1 14-2l1 6M19 16a8 8 0 0 1-14 2l-1-6',send:'M4 12h15m-6-6 6 6-6 6',close:'m6 6 12 12M18 6 6 18',play:'m9 5 11 7-11 7z',download:'M12 3v12m-5-5 5 5 5-5M4 17v4h16v-4',user:'M12 4a4 4 0 1 0 0 8 4 4 0 0 0 0-8ZM4 21v-2a8 8 0 0 1 16 0v2',menu:'M4 7h16M4 12h16M4 17h16',chevron:'m6 9 6 6 6-6',file:'M5 3h10l4 4v14H5zM14 3v5h5M8 12h8m-8 4h8',lock:'M5 10h14v11H5zM8 10V7a4 4 0 0 1 8 0v3',spark:'M12 2 9 9 2 12l7 3 3 7 3-7 7-3-7-3z'};
+const paths={mark:'M3 13c4-9 7-9 9 0s5 9 9 0M3 8c4-9 7-9 9 0s5 9 9 0',arrow:'M4 12h15m-6-6 6 6-6 6',diagonal:'M6 18 18 6M7 6h11v11',mic:'M9 5a3 3 0 0 1 6 0v7a3 3 0 0 1-6 0zM5 10v2a7 7 0 0 0 14 0v-2M12 19v3m-4 0h8',stop:'M7 7h10v10H7z',check:'m5 12 4 4L19 6',shield:'M12 3 4 6v6c0 5 8 9 8 9s8-4 8-9V6zM8 12l3 3 5-6',globe:'M12 3a9 9 0 1 0 0 18 9 9 0 0 0 0-18ZM3 12h18M12 3a16 16 0 0 1 0 18m0-18a16 16 0 0 0 0 18',phone:'M4 3h5l2 5-3 2c2 4 4 6 8 8l2-3 4 2v4c-9 3-21-8-18-18Z',chat:'M20 11a8 8 0 0 1-8 8H4l2-4a8 8 0 1 1 14-4Z',edit:'m14 5 5 5M4 20l5-1L21 7l-5-5L4 14z',volume:'M3 9h4l5-4v14l-5-4H3zM16 8a6 6 0 0 1 0 8m3-11a10 10 0 0 1 0 14',mute:'M3 9h4l5-4v14l-5-4H3zM16 9l5 6m0-6-5 6',refresh:'M20 7v5h-5M4 17v-5h5M5 8a8 8 0 0 1 14-2l1 6M19 16a8 8 0 0 1-14 2l-1-6',send:'M4 12h15m-6-6 6 6-6 6',close:'m6 6 12 12M18 6 6 18',play:'m9 5 11 7-11 7z',download:'M12 3v12m-5-5 5 5 5-5M4 17v4h16v-4',user:'M12 4a4 4 0 1 0 0 8 4 4 0 0 0 0-8ZM4 21v-2a8 8 0 0 1 16 0v2',menu:'M4 7h16M4 12h16M4 17h16',chevron:'m6 9 6 6 6-6',file:'M5 3h10l4 4v14H5zM14 3v5h5M8 12h8m-8 4h8',lock:'M5 10h14v11H5zM8 10V7a4 4 0 0 1 8 0v3',spark:'M12 2 9 9 2 12l7 3 3 7 3-7 7-3-7-3z',store:'M3 9h18l-2-5H5L3 9Zm2 0v11h14V9M9 20v-7h6v7',leaf:'M20 4C9 4 4 9 4 16a4 4 0 0 0 4 4c7 0 12-5 12-16ZM5 19c3-4 6-7 11-10',hand:'M4 14v5h16v-5M7 14V9m3 5V5m3 9V7m3 7v-4m3 4v-2',wallet:'M3 6h17v13H3zM3 9h17m-6 4h4'};
 export default function Icon({name,size=20,...rest}){return <svg width={size} height={size} viewBox="0 0 24 24" fill="none" stroke="currentColor" strokeWidth="1.65" strokeLinecap="round" strokeLinejoin="round" aria-hidden="true" {...rest}><path d={paths[name]||paths.spark}/></svg>}
 export function Brand(){return <span className="brand"><img className="brand-image" src="/brand/saarthi-setu-logo.png" width="190" height="76" alt="Saarthi Setu — Voice for Opportunity"/></span>}

diff --git a/public/sw.js b/public/sw.js
@@ -1,4 +1,4 @@
-const CACHE='saarthi-shell-v1';
-self.addEventListener('install',event=>{event.waitUntil(caches.open(CACHE).then(c=>c.addAll(['/offline.html','/icons/icon-192.png','/icons/icon-512.png','/manifest.webmanifest'])));self.skipWaiting()});
+const CACHE='saarthi-shell-v2';
+self.addEventListener('install',event=>{event.waitUntil(caches.open(CACHE).then(c=>c.addAll(['/offline.html','/icons/icon-512.png','/manifest.webmanifest'])));self.skipWaiting()});
 self.addEventListener('activate',event=>event.waitUntil(caches.keys().then(keys=>Promise.all(keys.filter(k=>k.startsWith('saarthi-shell-')&&k!==CACHE).map(k=>caches.delete(k)))).then(()=>self.clients.claim())));
 self.addEventListener('fetch',event=>{const r=event.request,u=new URL(r.url);if(r.method!=='GET'||u.origin!==self.location.origin)return;if(r.mode==='navigate'){event.respondWith(fetch(r).catch(()=>caches.match('/offline.html')));return}if(u.pathname.startsWith('/_next/static/')||u.pathname.startsWith('/icons/')||u.pathname==='/manifest.webmanifest'){event.respondWith(caches.match(r).then(c=>c||fetch(r).then(res=>{if(res.ok){const copy=res.clone();caches.open(CACHE).then(cache=>cache.put(r,copy))}return res})))}});

diff --git a/app/layout.jsx b/app/layout.jsx
@@ -1,5 +1,5 @@
 import './globals.css';
 import Pwa from '../components/Pwa';
-export const metadata={title:'Saarthi Setu — Your voice. Your next step.',description:'Discover government entrepreneurship support through a conversation.',manifest:'/manifest.webmanifest',appleWebApp:{capable:true,statusBarStyle:'default',title:'Saarthi Setu'},icons:{icon:'/icons/icon-192.png',apple:'/icons/icon-192.png'}};
-export const viewport={width:'device-width',initialScale:1,themeColor:'#f5f4ee'};
+export const metadata={title:'Saarthi Setu — Your voice. Your next step.',description:'Discover government entrepreneurship support through a conversation.',manifest:'/manifest.webmanifest',appleWebApp:{capable:true,statusBarStyle:'default',title:'Saarthi Setu'},icons:{icon:[{url:'/icons/icon-512.png',sizes:'1254x1254',type:'image/png'}],apple:'/icons/icon-512.png'}};
+export const viewport={width:'device-width',initialScale:1,themeColor:'#f9f8f3'};
 export default function RootLayout({children}){return <html lang="en"><body><Pwa/>{children}</body></html>}

diff --git a/README.md b/README.md
@@ -1,11 +1,11 @@
 <div align="center">
-  <img src="public/icons/icon-192.png" alt="Saarthi Setu mark" width="72" />
+  <img src="public/icons/icon-512.png" alt="Saarthi Setu mark" width="72" />
   <h1>Saarthi Setu</h1>
   <p><strong>Your voice. Your opportunity.</strong></p>
   <p>A multilingual, voice enabled guide from a person's business story to a reviewable government scheme report.</p>
   <p>
-    <img alt="Working prototype" src="https://img.shields.io/badge/status-working%20prototype-1C46D3?style=for-the-badge&labelColor=111111" />
-    <img alt="Voice and text" src="https://img.shields.io/badge/input-voice%20%2B%20text-F32D22?style=for-the-badge&labelColor=111111" />
+    <img alt="Working prototype" src="https://img.shields.io/badge/status-working%20prototype-137C53?style=for-the-badge&labelColor=132331" />
+    <img alt="Voice and text" src="https://img.shields.io/badge/input-voice%20%2B%20text-143E70?style=for-the-badge&labelColor=132331" />
   </p>
   <p><a href="#-the-problem">The problem</a> · <a href="#-the-solution">The solution</a> · <a href="#-how-it-works">How it works</a> · <a href="#-run-the-prototype">Run it</a> · <a href="#-evaluate-it-in-3-minutes">Judge's walkthrough</a></p>
 </div>
@@ -48,6 +48,12 @@ Saarthi Setu turns a conversation into a structured, **user-confirmed** profile,
 - 📐 **Rule-based matching:** the bundled Rule Engine checks eligibility rules, ranks matches and prepares document guidance. The report displays only results the engine marks `ELIGIBLE`.
 - 🧭 **Actionable report:** a printable English report shows profile amounts, rule-checked schemes, documents, official-source links when supplied, and a stage-by-stage path.
 - 📱 **Guest-first PWA:** responsive interface, no sign-up, and no database for the web conversation.
+
+**Guest entry:** choose a language, or let Saarthi detect it from the first message.
+
+![Saarthi Setu assistant entry with the civic illustration](docs/assistant-preview.png)
+
+**Live conversation:** explicit facts update the editable profile beside the central microphone.
 
 ![Saarthi Setu chat showing extracted profile details and the central microphone](docs/chat-preview.png)
 
